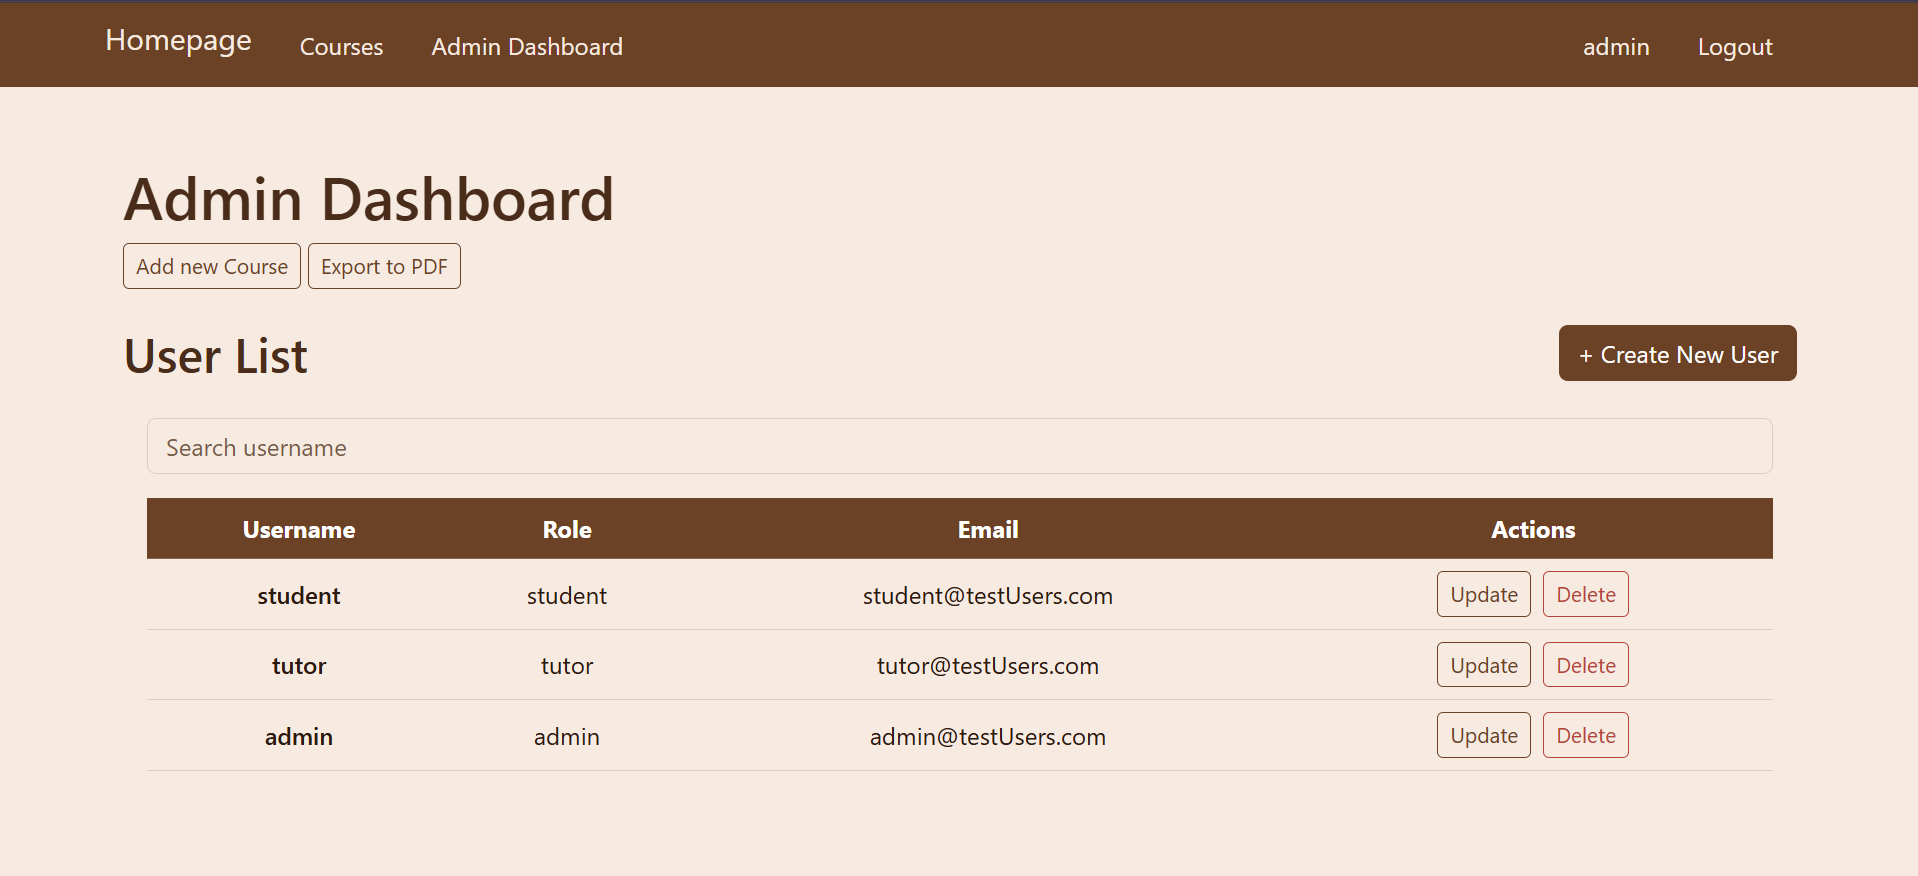
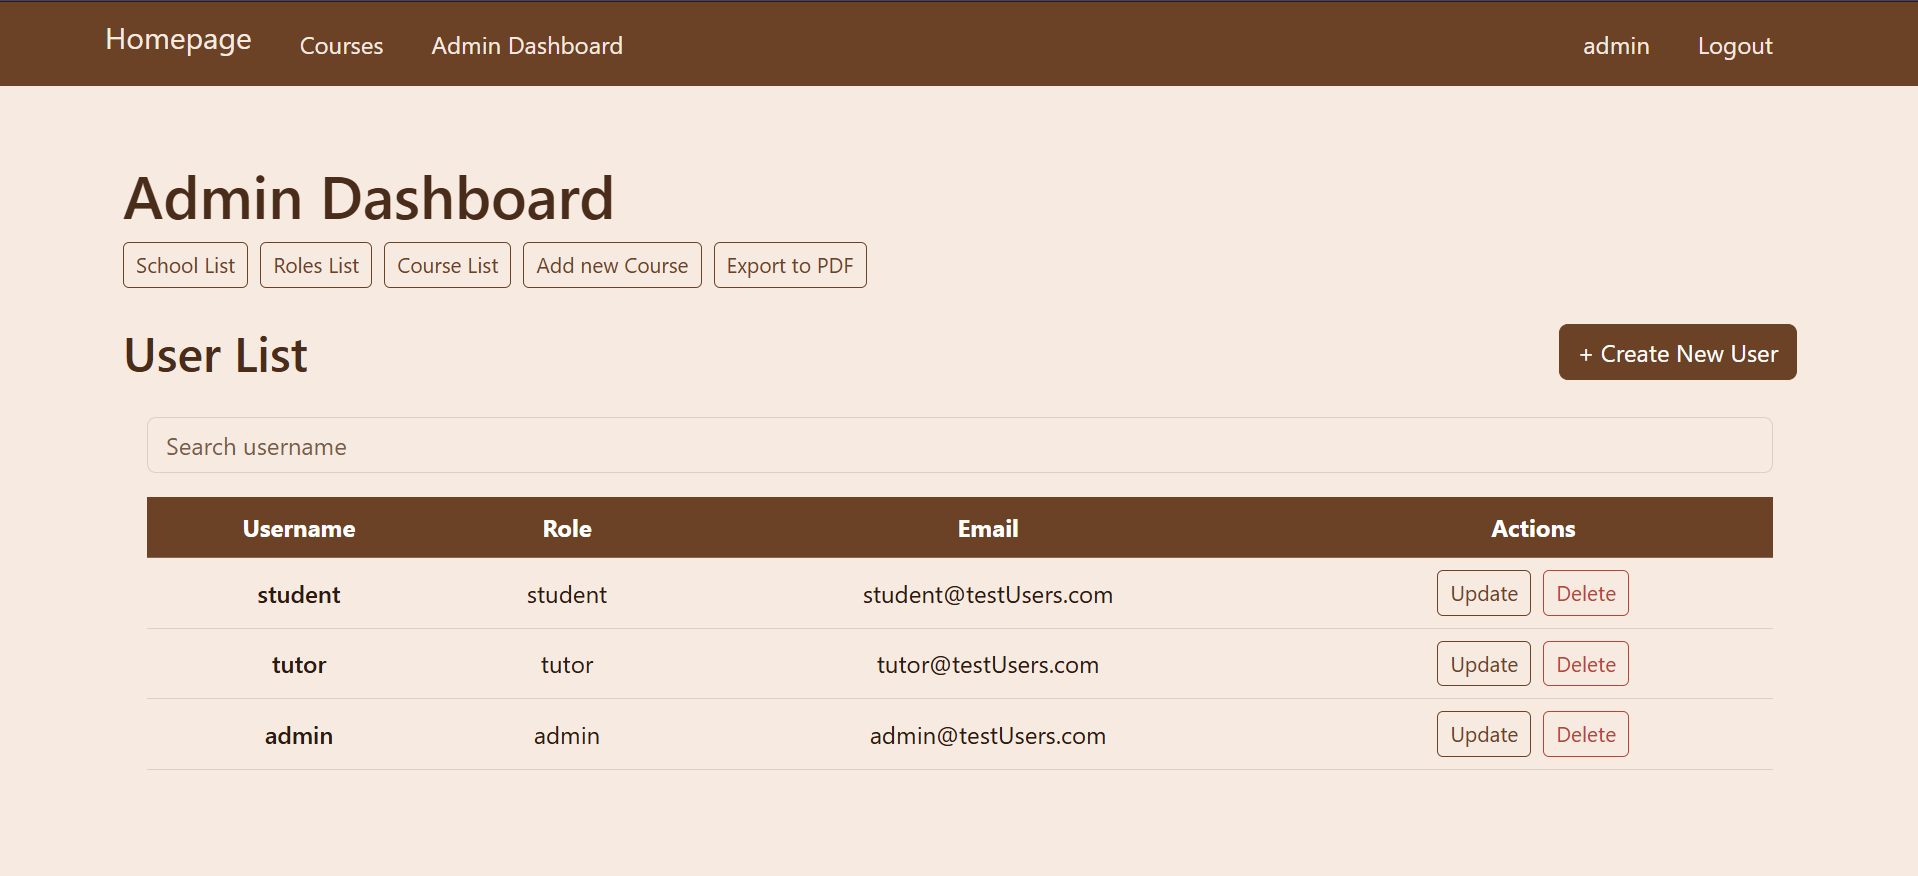
Full CRUD on Schools and updated the README

diff --git a/routes/admin.routes.js b/routes/admin.routes.js
@@ -1,12 +1,15 @@
 const router = require("express").Router()
 
-const User = require('../models/User')
-
 const { jsPDF } = require('jspdf')
 const { autoTable } = require('jspdf-autotable')
-const Role = require("../models/Role")
+
 const isSignedIn = require("../middleware/is-signed-in")
 const isAdmin = require("../middleware/is-admin")
+
+const Role = require("../models/Role")
+const User = require('../models/User')
+const School = require('../models/School')
+
 
 router.get('/', async (req, res) => {
     try {
@@ -43,6 +46,7 @@ router.get('/export-to-pdf', async (req, res) => {
     }
 })
 
+// Roles
 router.get('/roles', async (req, res) => {
     try {
         const allRoles = await Role.find()
@@ -67,7 +71,6 @@ router.post('/roles', isSignedIn, isAdmin, async (req, res) => {
         })
         res.redirect('/admin/roles')
     } catch (err) {
-        const allSchools = await School.find()
         if (err.name === "ValidationError") {
             return res.render('admin/create-role.ejs', {
                 error: err.message,
@@ -129,6 +132,95 @@ router.delete('/roles/:roleId', isSignedIn, isAdmin, async (req, res) => {
         console.log('Error: ', err)
         const msg = encodeURIComponent(`Something went wrong.`)
         res.redirect(`/admin/roles?message=${msg}&type=danger`)
+    }
+})
+
+//Schools
+router.get('/schools', async (req, res) => {
+    try {
+        const allSchools = await School.find()
+
+        res.render('admin/school-index.ejs', { schools: allSchools })
+    } catch (err) {
+        console.log('Error: ', err)
+        res.redirect('/')
+    }
+})
+
+router.get('/schools/new', isSignedIn, isAdmin, (req, res) => {
+    res.render('admin/create-school.ejs', { error: null })
+})
+
+router.post('/schools', isSignedIn, isAdmin, async (req, res) => {
+    try {
+        const { name, description } = req.body
+        const createdSchool = await School.create({
+            name: name,
+            description: description
+        })
+        res.redirect('/admin/schools')
+    } catch (err) {
+        if (err.name === "ValidationError") {
+            return res.render('admin/create-school.ejs', {
+                error: err.message,
+            });
+        }
+        if (err.code === 11000) {
+            return res.render('admin/create-school.ejs', {
+                error: "Resource already exists with this name",
+            });
+        }
+    }
+})
+
+router.get('/schools/:schoolId/update', isSignedIn, isAdmin, async (req, res) => {
+    try {
+        const foundSchool = await School.findById(req.params.schoolId)
+        res.render('admin/update-school.ejs', {school: foundSchool, error: null})
+    } catch (err) {
+        console.log('Error: ', err)
+        res.redirect('/')
+    }
+})
+
+router.put('/schools/:schoolId', isSignedIn, isAdmin, async (req, res) => {
+    try {
+        const { name, description} = req.body
+        const updatedSchool = await School.findByIdAndUpdate(req.params.schoolId, {
+            name: name,
+            description: description
+        })
+
+        const msg = encodeURIComponent(`School "${updatedSchool.name}" has been updated.`)
+        res.redirect(`/admin/schools?message=${msg}&type=success`)
+
+    } catch (err) {
+        const foundSchool = await School.findById(req.params.schoolId)
+        if (err.name === "ValidationError") {
+            return res.render('admin/update-school.ejs', {
+                school: foundSchool,
+                error: err.message,
+            });
+        }
+        if (err.code === 11000) {
+            return res.render('admin/update-school.ejs', {
+                school: foundSchool,
+                error: "Resource already exists with this name",
+            });
+        }
+    }
+})
+
+router.delete('/schools/:schoolId', isSignedIn, isAdmin, async (req, res) => {
+    try {
+        const deletedSchool = await School.findByIdAndDelete(req.params.schoolId)
+
+        const msg = encodeURIComponent(`School "${deletedSchool.name}" has been deleted.`)
+        res.redirect(`/admin/schools?message=${msg}&type=success`)
+    } catch (err) {
+        console.log('Error: ', err)
+        const msg = encodeURIComponent(`Something went wrong.`)
+        res.redirect(`/admin/schools?message=${msg}&type=danger`)
     }
 })
 

diff --git a/README.md b/README.md
@@ -75,8 +75,8 @@ nodemon server.js
 |--------|---------------------------------|----------------------------|-------------------------------------------------------|
 | get    | /user/new                       | create-user.ejs            | Display the creation form                             |
 | post   | /user/                          | -                          | Creates the user                                      |
-| get    | /user/:userId/update-role       | update-user-role.ejs       | Display the update form                               |
-| put    | /user/:userId/role              | -                          | Change the user Role                                  |
+| get    | /user/:userId/update-school       | update-user-school.ejs       | Display the update form                               |
+| put    | /user/:userId/school              | -                          | Change the user school                                  |
 | get    | /user/:userId/update            | user/update-user.ejs       | Display the update form                               |
 | put    | /user/:userId                   | -                          | Update the user                                       |
 | delete | /user/:userId                   | -                          | Delete the user                                       |
@@ -84,7 +84,19 @@ nodemon server.js
 | put    | /user/:userId/change-password   | -                          | Update the user password                              |
 | get    | /user/:userId                   | user/user-details.ejs      | Display the information of one user                   |
 | get    | /admin/                         | admin/admin-dashboard.ejs  | Display the admin dashboard (user List)               |
-| get    | /admin//export-to-pdf           | -                          |  Export the user List to a PDF
+| get    | /admin/export-to-pdf            | -                          |  Export the user List to a PDF                        |
+| get    | /admin/roles                    | admin/role-index.ejs       | Display the roles                                     |
+| get    | /admin/roles/new                | admin/create-role.ejs      | Display the creation                                  |
+| post   | /admin/roles                    | -                          | Creates the role                                      |
+| get    | /admin/roles/:roleId/update     | admin/update-role.ejs      | Display the update form                               |
+| put    | /admin/roles/:roleId            | -                          | Update the role                                       |
+| delete | /admin/roles/:roleId            | -                          | Delete the role                                       |
+| get    | /admin/schools                  | admin/school-index.ejs     | Display the schools                                   |
+| get    | /admin/schools/new              | admin/create-school.ejs    | Display the creation                                  |
+| post   | /admin/schools                  | -                          | Creates the school                                    |
+| get    | /admin/schools/:schoolId/update | admin/update-school.ejs    | Display the update form                               |
+| put    | /admin/schools/:schoolId        | -                          | Update the school                                     |
+| delete | /admin/schools/:schoolId        | -                          | Delete the school                                     |
 | get    | /courses/                       | course/index.ejs           | Display the courses                                   |
 | get    | /courses/new                    | course/create-course.ejs   | Display the creation form                             |
 | post   | /courses/                       | -                          | Creates the course                                    |
@@ -107,19 +119,21 @@ nodemon server.js
 1. Full CRUD on courses.
 2. Full CRUD on sections.
 3. Full CRUD on users.
-4. Registering in sections.
-5. Role management.
-6. Profile photo upload.
-7. Integrated Bootstrap.
-8. Toasts.
-9. Sample data in seeds.
+4. Full CRUD on Schools.
+5. Full CRUD on schools.
+6. Registering in sections.
+7. school management.
+8. Profile photo upload.
+9. Integrated Bootstrap.
+10. Toasts.
+11. Sample data in seeds.
+12. Exporting user list to PDF.
 
 
 ## Future Enhancements
-1. Full CRUD on Schools.
-2. Full CRUD on Roles.
-3. Student schedule.
-4. Adding Filter.
+1. Student schedule.
+2. Adding Filter.
+3. Email confirmation
 
 
 ## Credits (edited)
